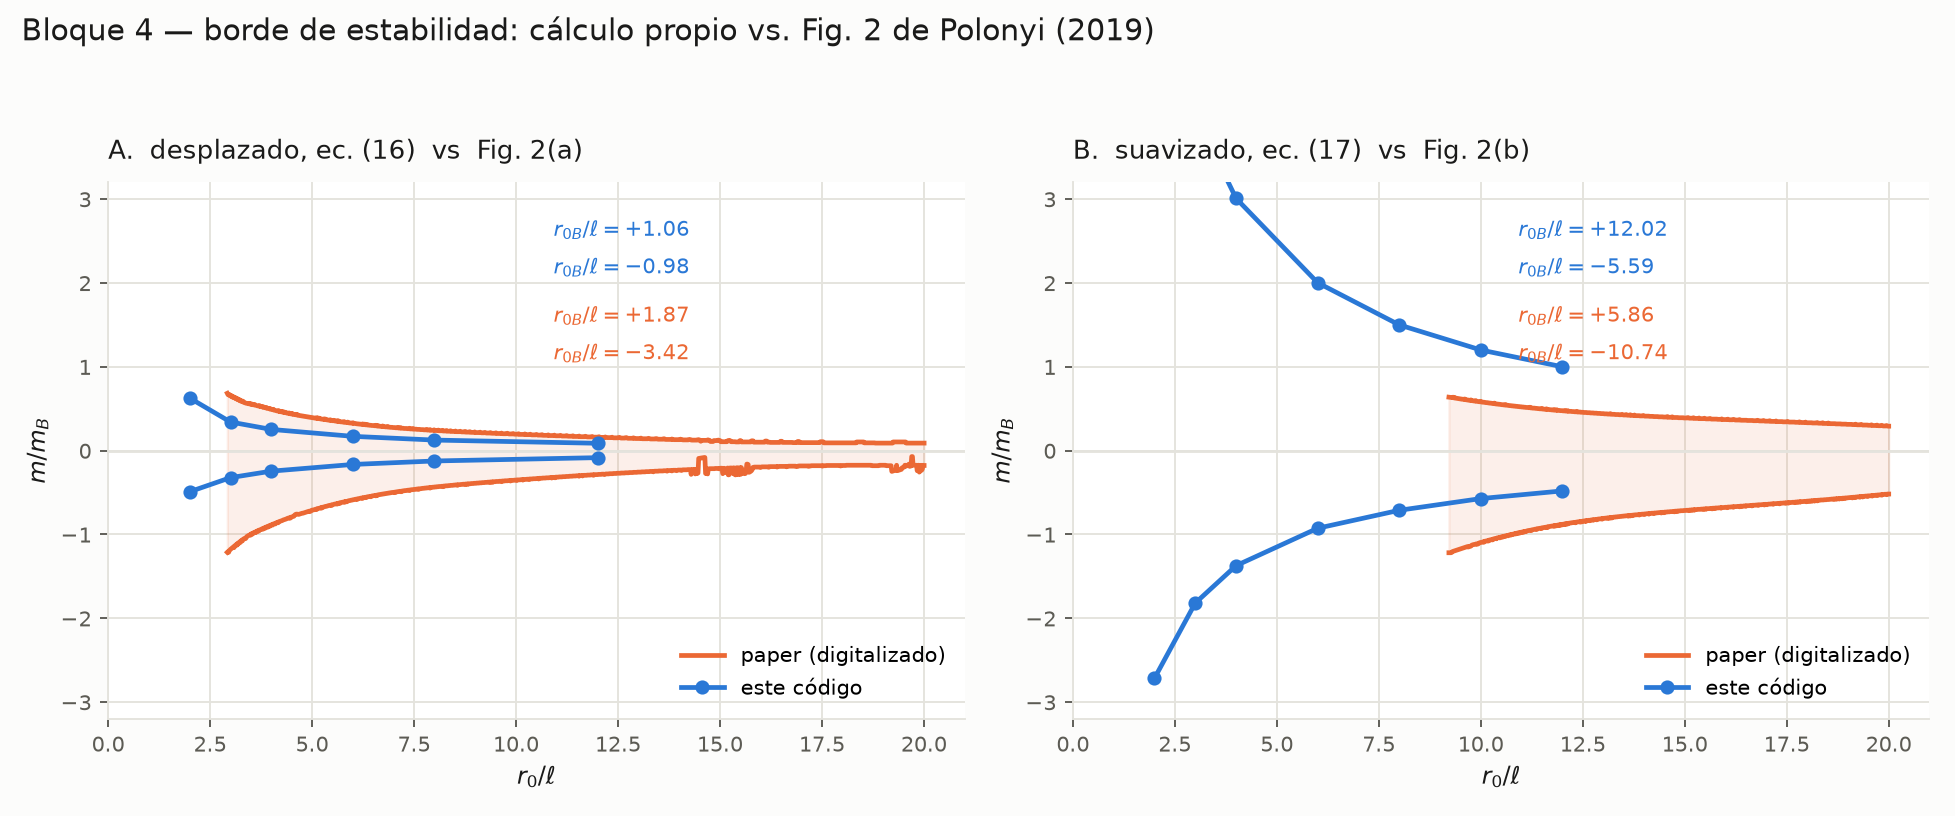
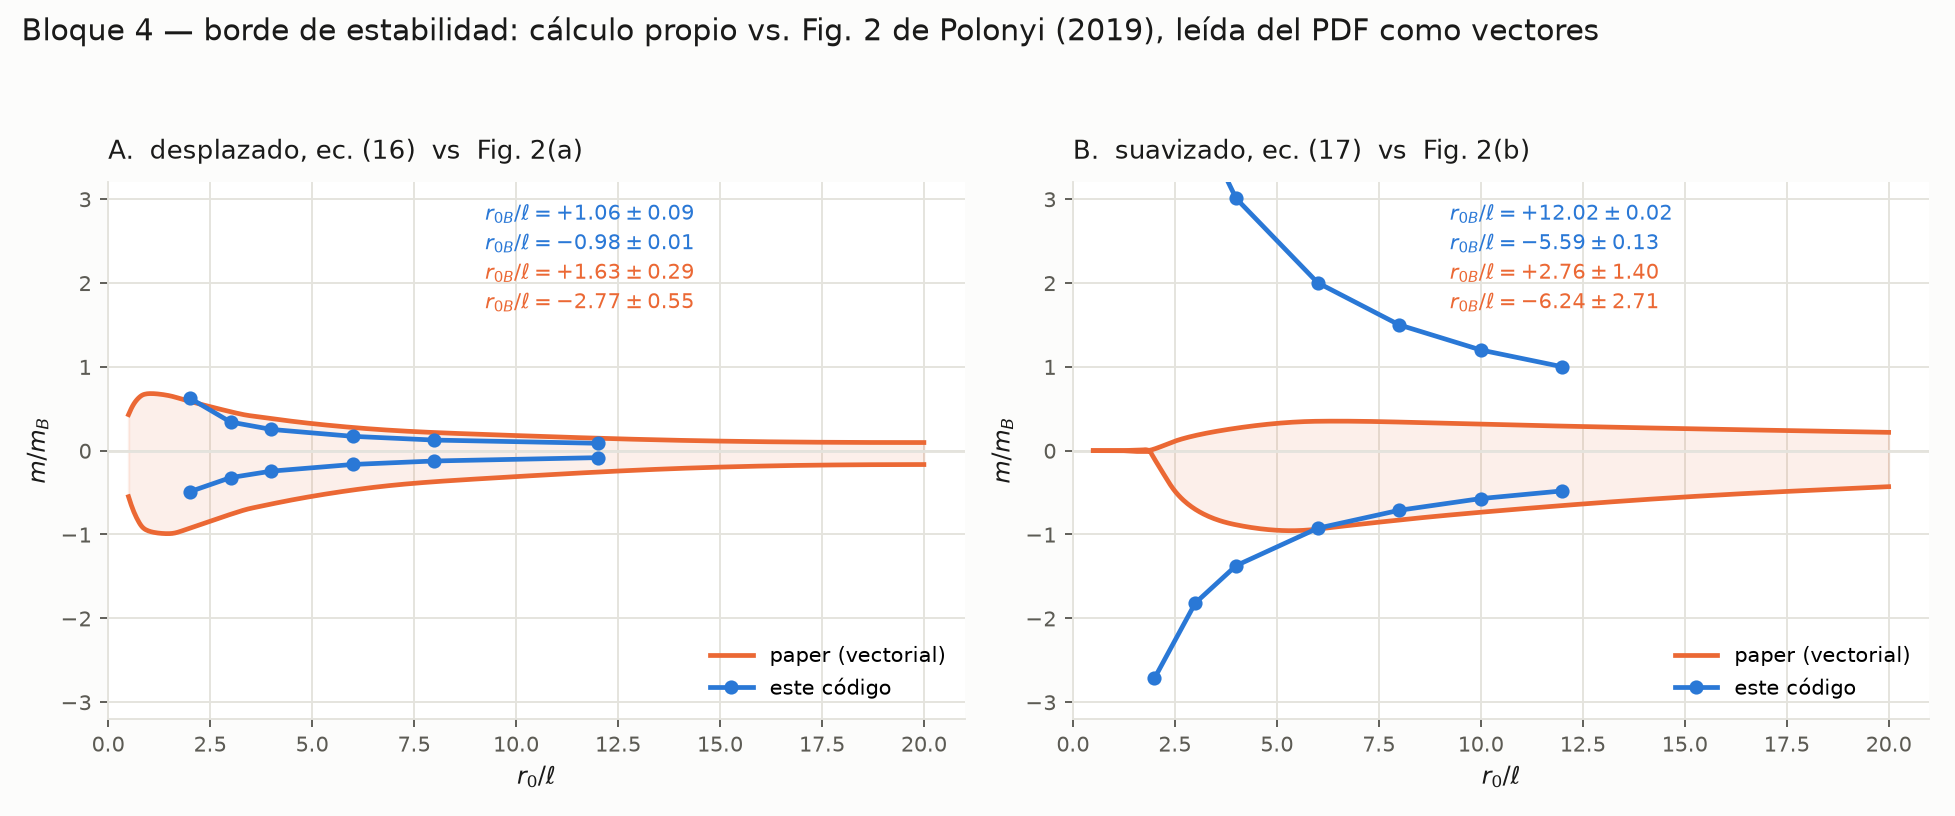
fig_block4: migra a la digitalizacion vectorial, y reporta la dispersion
La frontera del paper ahora sale de data/fig2_vectorial.npz (coordenadas del
content stream) en vez de data/fig2_digitalizada.npz (pixeles). El npz viejo se
conserva como registro historico: lo usa figures/fig2b_verificacion_contraterm.png.

Se elimina el filtro `libre` -- la mascara que descartaba los tramos recortados
por el marco -- porque las rutas vectoriales no estan recortadas: no hay nada
que adivinar.

Cambio de fondo: `cte()` devuelve media Y desviacion de r_0B/ell = x*(m/m_B).
Esa cantidad es constante solo si la frontera escala como 1/x, y dar solo la
media sugeria una regularidad que en el panel (b) no existe. Con la dispersion
a la vista:

  panel (a) desplazado   nuestro +1.06 +-0.09 / -0.98 +-0.01
                         paper   +1.63 +-0.29 / -2.77 +-0.55
  panel (b) suavizado    nuestro +12.02 +-0.02 / -5.59 +-0.13
                         paper    +2.76 +-1.40 /  -6.24 +-2.71

El nuestro es una hiperbola limpia en los dos reguladores (sigma del 1% en el
suavizado). El del paper lo es razonablemente en el panel (a) y no lo es en el
(b), donde sigma es el 51% de la media. Es la misma conclusion que
seccion_A/fig_fig2_tension.py, ahora visible en la figura del bloque 4.

pytest -m "not slow": en verde.

Claude-Session: https://claude.ai/code/session_01Cin82geoUkmt2MoKY7deE2

diff --git a/scripts/fig_block4.py b/scripts/fig_block4.py
@@ -3,9 +3,12 @@
 Panel A  regulador desplazado, ec. (16), contra el panel (a) de la Fig. 2.
 Panel B  regulador suavizado,  ec. (17), contra el panel (b) de la Fig. 2.
 
-La frontera digitalizada del paper esta en data/fig2_digitalizada.npz
-(calibracion documentada en data/fig2_digitalizada.json). Los bordes propios
-salen de scripts/scan_borde.py.
+La frontera del paper sale de data/fig2_vectorial.npz, leida del content
+stream del PDF por scripts/digitaliza_fig2.py: son las coordenadas que
+Mathematica escribio, sin error de lectura. (La digitalizacion por pixeles,
+data/fig2_digitalizada.npz, queda como registro historico; la usa
+figures/fig2b_verificacion_contraterm.png.) Los bordes propios salen de
+scripts/scan_borde.py.
 
 Ambas fronteras caen a r_0B/ell constante, con r_0B = r0 (m/m_B) el radio
 clasico DESNUDO: el criterio de estabilidad compara el acoplamiento desnudo
@@ -45,40 +48,59 @@ def carga_mio(reg):
 
 
 def cte(x, y):
-    """r_0B/ell = (r0/ell)(m/m_B), constante si la frontera escala como 1/x."""
+    """r_0B/ell = (r0/ell)(m/m_B): media y dispersion.
+
+    Es constante SOLO si la frontera escala como 1/x. Se devuelve tambien la
+    desviacion porque el panel (b) del paper no escala asi, y dar solo la media
+    ahi sugiere una regularidad que no existe.
+    """
     m = np.isfinite(y)
-    return float(np.mean(x[m] * y[m])) if m.any() else np.nan
+    if not m.any():
+        return np.nan, np.nan
+    p = x[m] * y[m]
+    return float(np.mean(p)), float(np.std(p))
+
+
+def carga_paper(pan, n=600):
+    """Las dos ramas de la Fig. 2 del paper, sobre una malla comun.
+
+    `sol0` es la rama m/m_B > 0 y `sol1` la negativa; cada una trae su propia
+    malla en x, asi que se interpolan sobre una comun para poder sombrear
+    entre ellas.
+    """
+    d = np.load(RAIZ / "data/fig2_vectorial.npz")
+    s0, s1 = d[f"{pan}_sol0"], d[f"{pan}_sol1"]
+    o0, o1 = np.argsort(s0[:, 0]), np.argsort(s1[:, 0])
+    lo = max(s0[:, 0].min(), s1[:, 0].min(), 0.5)
+    x = np.linspace(lo, min(s0[:, 0].max(), s1[:, 0].max()), n)
+    return x, np.interp(x, s0[o0, 0], s0[o0, 1]), np.interp(x, s1[o1, 0], s1[o1, 1])
 
 
 def main():
-    dig = np.load(RAIZ / "data/fig2_digitalizada.npz")
     fig, axes = plt.subplots(1, 2, figsize=(11.5, 4.8))
 
     for ax, pan, reg, titulo in (
         (axes[0], "a", "shifted", "A.  desplazado, ec. (16)  vs  Fig. 2(a)"),
         (axes[1], "b", "smeared", "B.  suavizado, ec. (17)  vs  Fig. 2(b)"),
     ):
-        xd, sup, inf = dig[f"{pan}_x"], dig[f"{pan}_sup"], dig[f"{pan}_inf"]
-        libre = (sup < 0.80) & (inf > -1.22)        # no recortado por el marco
-        ax.plot(xd[libre], sup[libre], lw=2, color=PAPER, label="paper (digitalizado)")
-        ax.plot(xd[libre], inf[libre], lw=2, color=PAPER)
-        ax.fill_between(xd[libre], inf[libre], sup[libre], color=PAPER, alpha=.10)
+        xd, sup, inf = carga_paper(pan)
+        ax.plot(xd, sup, lw=2, color=PAPER, label="paper (vectorial)")
+        ax.plot(xd, inf, lw=2, color=PAPER)
+        ax.fill_between(xd, inf, sup, color=PAPER, alpha=.10)
 
         mio = carga_mio(reg)
         if mio is not None:
             x, p, n = mio
             ax.plot(x, p, "o-", lw=2, ms=5, color=MIO, label="este código")
             ax.plot(x, n, "o-", lw=2, ms=5, color=MIO)
-            cp, cn = cte(x, p), cte(x, n)
-            ax.annotate(f"$r_{{0B}}/\\ell = {cp:+.2f}$", xy=(0.52, 0.90),
-                        xycoords="axes fraction", color=MIO, fontsize=9)
-            ax.annotate(f"$r_{{0B}}/\\ell = {cn:+.2f}$", xy=(0.52, 0.83),
-                        xycoords="axes fraction", color=MIO, fontsize=9)
-        cps, cns = cte(xd[libre], sup[libre]), cte(xd[libre], inf[libre])
-        ax.annotate(f"$r_{{0B}}/\\ell = {cps:+.2f}$", xy=(0.52, 0.74),
-                    xycoords="axes fraction", color=PAPER, fontsize=9)
-        ax.annotate(f"$r_{{0B}}/\\ell = {cns:+.2f}$", xy=(0.52, 0.67),
-                    xycoords="axes fraction", color=PAPER, fontsize=9)
+            for k, (c, sd) in enumerate((cte(x, p), cte(x, n))):
+                ax.annotate(f"$r_{{0B}}/\\ell = {c:+.2f} \\pm {sd:.2f}$",
+                            xy=(0.44, 0.93 - 0.055 * k), xycoords="axes fraction",
+                            color=MIO, fontsize=9)
+        for k, (c, sd) in enumerate((cte(xd, sup), cte(xd, inf))):
+            ax.annotate(f"$r_{{0B}}/\\ell = {c:+.2f} \\pm {sd:.2f}$",
+                        xy=(0.44, 0.82 - 0.055 * k), xycoords="axes fraction",
+                        color=PAPER, fontsize=9)
 
         ax.axhline(0, color=GRID, lw=1.2, zorder=1)
         ax.set_xlabel("$r_0/\\ell$")
@@ -96,8 +118,8 @@ def main():
         ax.tick_params(colors=MUTED, labelsize=9)
         ax.xaxis.label.set_color(INK); ax.yaxis.label.set_color(INK)
 
-    fig.suptitle("Bloque 4 — borde de estabilidad: cálculo propio vs. Fig. 2 "
-                 "de Polonyi (2019)", x=0.011, ha="left",
+    fig.suptitle("Bloque 4 — borde de estabilidad: cálculo propio vs. Fig. 2 de "
+                 "Polonyi (2019), leída del PDF como vectores", x=0.011, ha="left",
                  fontsize=12.5, color=INK)
     fig.tight_layout(rect=(0, 0, 1, 0.93))
     salida = RAIZ / "figures/block4_borde.png"
